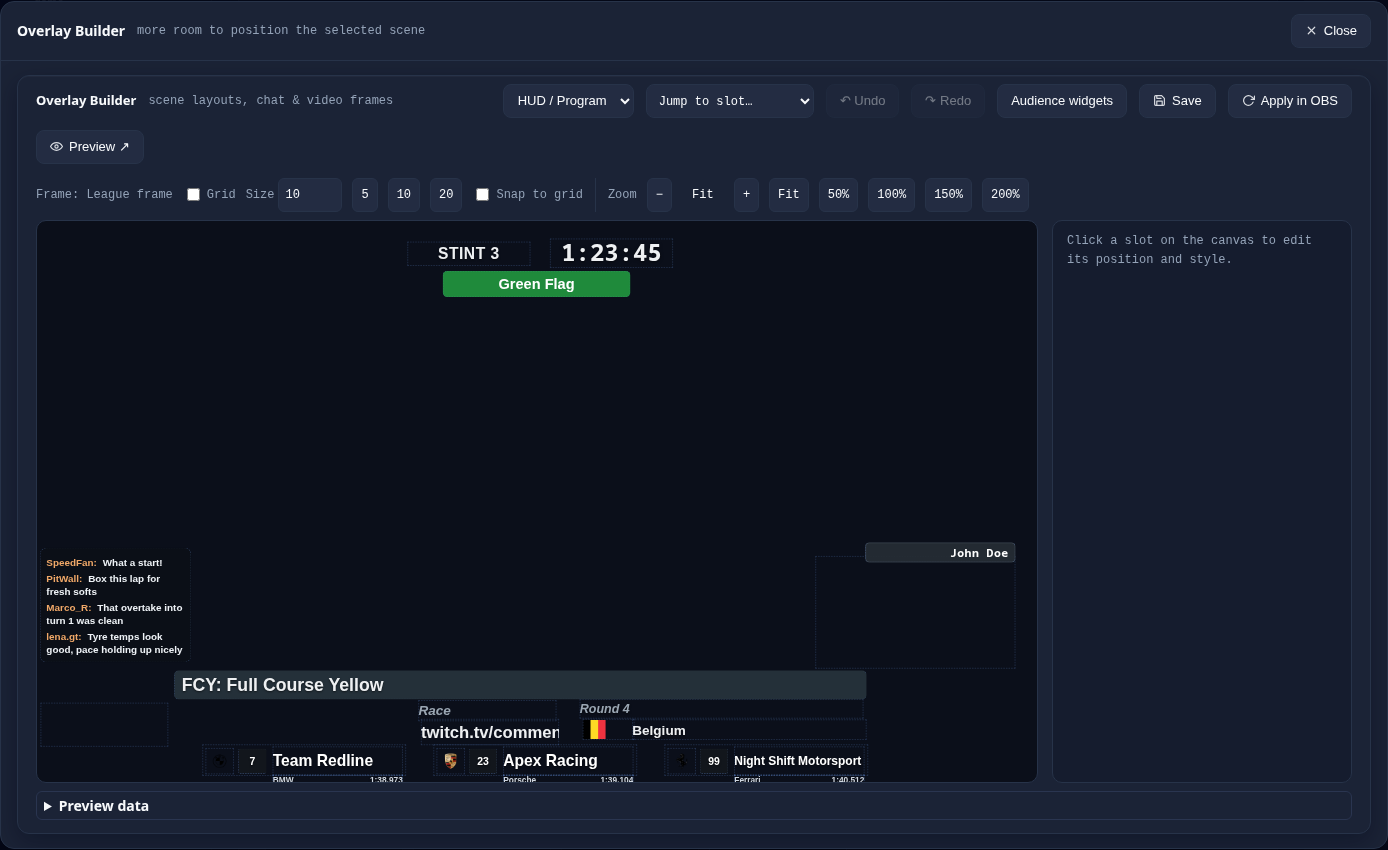
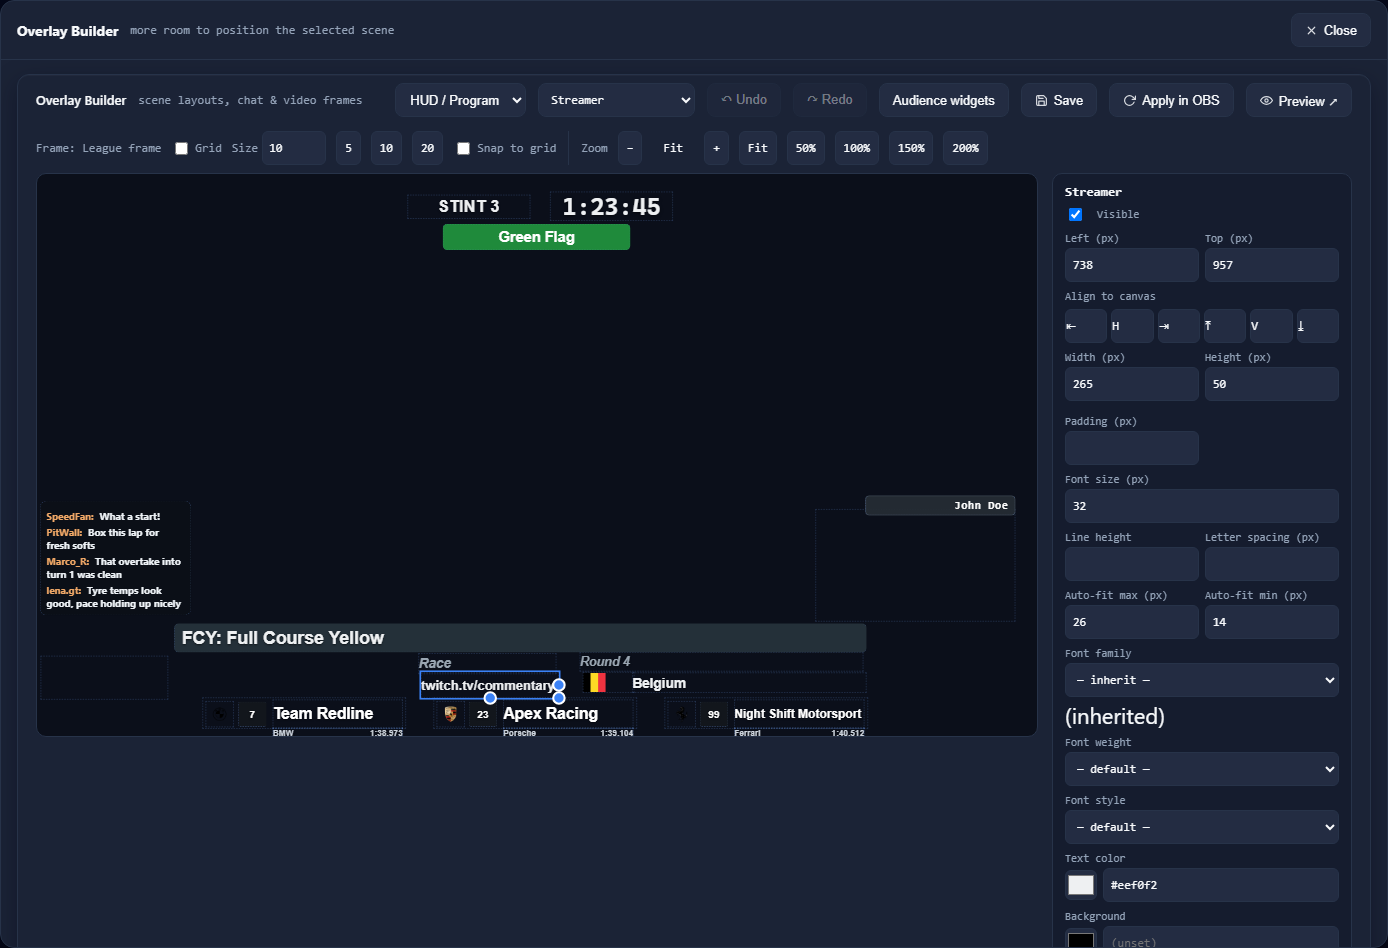
docs(overlay): show the auto-fit bounds in the overlay builder screenshot
The builder shot now selects the Streamer box with an unsaved Auto-fit
max/min, so the wiki and the designer deck show the new fields and the
fitted sample text.

diff --git a/tools/e2e-asset-aliases.py b/tools/e2e-asset-aliases.py
@@ -169,6 +169,10 @@ def main():
                 assert page.locator("#ov-frame-label").get_attribute("title") == "Overlay.png"
                 if args.shots:
                     page.locator("#overlay-popout").click()
+                    # Show the property panel with the auto-fit bounds every text box
+                    # offers (#957): an unsaved draft value fits the long sample text.
+                    page.evaluate("ovSelect('streamer'); ovSetProp('streamer', 'fitMax', 26);"
+                                  " ovSetProp('streamer', 'fitMin', 14)")
                     page.locator("#ov-modal .ovmodal-card").screenshot(
                         path=str(ROOT / "src/docs/wiki/images/cc-overlay-builder.png")
                     )

diff --git a/src/docs/wiki/HUD-Overlays.md b/src/docs/wiki/HUD-Overlays.md
@@ -137,7 +137,7 @@ opens the builder in a larger modal over the Control Center; **Save** writes the
 **Preview ↗** opens the live HUD preview at `/hud/preview` (the real base page with
 live Sheet data over your `Overlay.png` frame).
 
-![Control Center. Overlay Builder modal: drag/resize the HUD slots on a canvas over the Overlay.png frame, style them in the property panel](images/cc-overlay-builder.png)
+![Control Center. Overlay Builder modal: drag/resize the HUD slots on a canvas over the Overlay.png frame, style them in the property panel, here the Streamer box with its Auto-fit max/min](images/cc-overlay-builder.png)
 
 ### Splitscreen layouts
 
